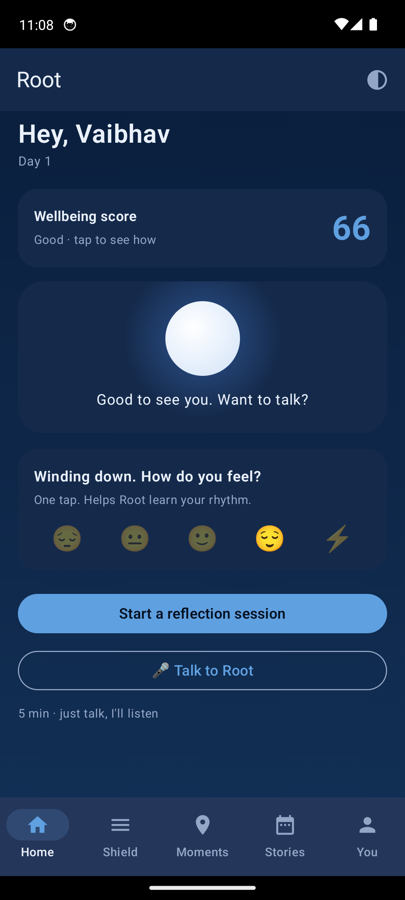
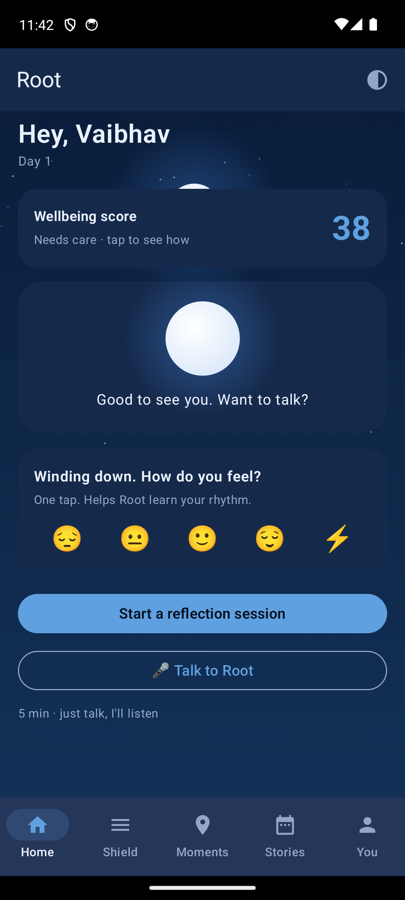
Living sky background: time-of-day sun/moon arc + drifting clouds, twinkling stars, tab fade transitions (v0.3.3)
- SkyBackground: sun/moon positioned on a real arc from the current time (rises at dawn, peaks midday, sets at dusk; moon through the night), gentle bob, drifting clouds by day, twinkling stars at night; minimalist stays a faint disc
- Wired behind every screen in RootScaffold; plain gradient replaced
- Smooth fade transitions between tabs for a more responsive feel
- Refreshed home screenshot

diff --git a/app/src/main/java/com/rootapp/ui/common/SkyBackground.kt b/app/src/main/java/com/rootapp/ui/common/SkyBackground.kt
@@ -1,0 +1,127 @@
+package com.rootapp.ui.common
+
+import androidx.compose.animation.core.LinearEasing
+import androidx.compose.animation.core.RepeatMode
+import androidx.compose.animation.core.animateFloat
+import androidx.compose.animation.core.infiniteRepeatable
+import androidx.compose.animation.core.rememberInfiniteTransition
+import androidx.compose.animation.core.tween
+import androidx.compose.foundation.Canvas
+import androidx.compose.foundation.layout.fillMaxSize
+import androidx.compose.runtime.Composable
+import androidx.compose.runtime.getValue
+import androidx.compose.runtime.remember
+import androidx.compose.ui.Modifier
+import androidx.compose.ui.geometry.Offset
+import androidx.compose.ui.graphics.Brush
+import androidx.compose.ui.graphics.Color
+import androidx.compose.ui.graphics.drawscope.DrawScope
+import com.rootapp.ui.theme.LocalRootPalette
+import java.util.Calendar
+import kotlin.math.PI
+import kotlin.math.abs
+import kotlin.math.sin
+
+/**
+ * Living sky behind every screen. The sun / moon sits on a real arc for the current time -
+ * it rises low at dawn, peaks at midday, sets at dusk, and the moon crosses through the night -
+ * so as time passes through the day the body visibly climbs and falls. Clouds drift by day,
+ * stars twinkle at night, and the whole thing breathes gently. Minimalist mode keeps only a
+ * faint disc so the black-and-white theme stays clean.
+ */
+@Composable
+fun SkyBackground(hour: Int, minimalist: Boolean, modifier: Modifier = Modifier) {
+    val palette = LocalRootPalette.current
+    val minute = remember(hour) { Calendar.getInstance().get(Calendar.MINUTE) }
+    val minutesOfDay = (((hour % 24) + 24) % 24) * 60 + minute
+    val isDay = minutesOfDay in 300..1140 // 05:00 - 19:00 the sun is up; otherwise the moon
+
+    val transition = rememberInfiniteTransition(label = "sky")
+    val drift by transition.animateFloat(
+        0f, 1f, infiniteRepeatable(tween(60000, easing = LinearEasing), RepeatMode.Restart), label = "drift",
+    )
+    val twinkle by transition.animateFloat(
+        0f, 1f, infiniteRepeatable(tween(3200), RepeatMode.Reverse), label = "twinkle",
+    )
+    val bob by transition.animateFloat(
+        -1f, 1f, infiniteRepeatable(tween(5200), RepeatMode.Reverse), label = "bob",
+    )
+
+    // Deterministic star field (fixed positions so it doesn't jump on recomposition).
+    val stars = remember {
+        var seed = 20260802
+        fun rnd(): Float { seed = (seed * 1103515245 + 12345) and 0x7fffffff; return (seed % 1000) / 1000f }
+        List(48) { Triple(rnd(), rnd() * 0.55f, rnd()) } // x-fraction, y-fraction (upper sky), phase
+    }
+
+    Canvas(modifier.fillMaxSize()) {
+        val w = size.width
+        val h = size.height
+
+        drawRect(Brush.verticalGradient(listOf(palette.bg1, palette.bg2)))
+
+        if (!minimalist) {
+            // Twinkling stars (only when the palette says the sky is dark enough).
+            if (palette.starsAlpha > 0f) {
+                stars.forEach { (fx, fy, ph) ->
+                    val a = palette.starsAlpha * (0.35f + 0.65f * abs(sin(((twinkle + ph) * 2f * PI).toFloat())))
+                    drawCircle(Color.White.copy(alpha = a.coerceIn(0f, 1f)), 0.7f + ph * 1.7f, Offset(fx * w, fy * h))
+                }
+            }
+            // Slow-drifting clouds by day.
+            if (isDay) {
+                listOf(
+                    Triple(0.12f, 0.20f, 0.55f),
+                    Triple(0.52f, 0.13f, 0.32f),
+                    Triple(0.80f, 0.28f, 0.46f),
+                ).forEach { (baseX, fy, speed) ->
+                    val x = (((baseX + drift * speed) % 1.35f) - 0.2f) * w
+                    drawCloud(x, fy * h, (0.10f + speed * 0.05f) * w, Color.White.copy(alpha = 0.16f))
+                }
+            }
+        }
+
+        // ---- the sun / moon on its time-of-day arc ----
+        val p = if (isDay) {
+            (minutesOfDay - 300) / 840f
+        } else {
+            val m = if (minutesOfDay >= 1140) minutesOfDay else minutesOfDay + 1440
+            (m - 1140) / 600f
+        }.coerceIn(0f, 1f)
+        val cx = (0.16f + 0.68f * p) * w
+        val altitude = sin((p * PI).toFloat()) // 0 at horizon, 1 at peak
+        val cy = (0.72f - 0.58f * altitude) * h + bob * 4f
+        val r = minOf(w, h) * 0.066f
+
+        // soft glow
+        drawCircle(
+            Brush.radialGradient(
+                listOf(palette.orbGlow.copy(alpha = if (minimalist) 0.10f else 0.42f), Color.Transparent),
+                center = Offset(cx, cy), radius = r * 3.2f,
+            ),
+            radius = r * 3.2f, center = Offset(cx, cy),
+        )
+        // the disc (warm sun / cool moon comes straight from the time-driven palette)
+        drawCircle(
+            Brush.radialGradient(
+                listOf(Color.White, palette.orb),
+                center = Offset(cx - r * 0.25f, cy - r * 0.3f), radius = r * 1.5f,
+            ),
+            radius = r, center = Offset(cx, cy),
+        )
+        // faint craters give the night disc a moon feel
+        if (!isDay && !minimalist) {
+            val crater = palette.orbGlow.copy(alpha = 0.25f)
+            drawCircle(crater, r * 0.16f, Offset(cx + r * 0.28f, cy - r * 0.18f))
+            drawCircle(crater, r * 0.10f, Offset(cx - r * 0.30f, cy + r * 0.16f))
+            drawCircle(crater, r * 0.12f, Offset(cx + r * 0.06f, cy + r * 0.34f))
+        }
+    }
+}
+
+private fun DrawScope.drawCloud(x: Float, y: Float, s: Float, color: Color) {
+    drawCircle(color, s * 0.50f, Offset(x, y))
+    drawCircle(color, s * 0.66f, Offset(x + s * 0.5f, y + s * 0.08f))
+    drawCircle(color, s * 0.50f, Offset(x + s * 1.0f, y))
+    drawCircle(color, s * 0.42f, Offset(x + s * 0.5f, y - s * 0.18f))
+}

diff --git a/app/src/main/java/com/rootapp/ui/nav/RootScaffold.kt b/app/src/main/java/com/rootapp/ui/nav/RootScaffold.kt
@@ -1,6 +1,8 @@
 package com.rootapp.ui.nav
 
-import androidx.compose.foundation.background
+import androidx.compose.animation.core.tween
+import androidx.compose.animation.fadeIn
+import androidx.compose.animation.fadeOut
 import androidx.compose.foundation.layout.Box
 import androidx.compose.foundation.layout.fillMaxSize
 import androidx.compose.foundation.layout.padding
@@ -26,7 +28,6 @@ import androidx.compose.runtime.mutableStateOf
 import androidx.compose.runtime.remember
 import androidx.compose.runtime.setValue
 import androidx.compose.ui.Modifier
-import androidx.compose.ui.graphics.Brush
 import androidx.compose.ui.graphics.vector.ImageVector
 import androidx.compose.ui.platform.LocalContext
 import androidx.navigation.NavDestination.Companion.hierarchy
@@ -36,6 +37,7 @@ import androidx.navigation.compose.composable
 import androidx.navigation.compose.currentBackStackEntryAsState
 import androidx.navigation.compose.rememberNavController
 import com.rootapp.ui.common.PlaceholderScreen
+import com.rootapp.ui.common.SkyBackground
 import com.rootapp.ui.home.HomeScreen
 import com.rootapp.ui.reflection.ReflectionScreen
 import com.rootapp.data.SettingsStore
@@ -79,7 +81,6 @@ fun RootScaffold(currentHour: Int = Calendar.getInstance().get(Calendar.HOUR_OF_
             com.rootapp.ui.auth.AuthScreen(onAuthed = { authed = true })
             return@RootTheme
         }
-        val palette = LocalRootPalette.current
         val navController = rememberNavController()
         val backStack by navController.currentBackStackEntryAsState()
         val currentRoute = backStack?.destination
@@ -127,10 +128,21 @@ fun RootScaffold(currentHour: Int = Calendar.getInstance().get(Calendar.HOUR_OF_
             Box(
                 Modifier
                     .fillMaxSize()
-                    .background(Brush.verticalGradient(listOf(palette.bg1, palette.bg2)))
                     .padding(inner),
             ) {
-                NavHost(navController = navController, startDestination = Tab.HOME.route) {
+                SkyBackground(
+                    hour = currentHour,
+                    minimalist = minimalist,
+                    modifier = Modifier.matchParentSize(),
+                )
+                NavHost(
+                    navController = navController,
+                    startDestination = Tab.HOME.route,
+                    enterTransition = { fadeIn(tween(220)) },
+                    exitTransition = { fadeOut(tween(160)) },
+                    popEnterTransition = { fadeIn(tween(220)) },
+                    popExitTransition = { fadeOut(tween(160)) },
+                ) {
                     composable(Tab.HOME.route) {
                         HomeScreen(
                             userName = userName,
